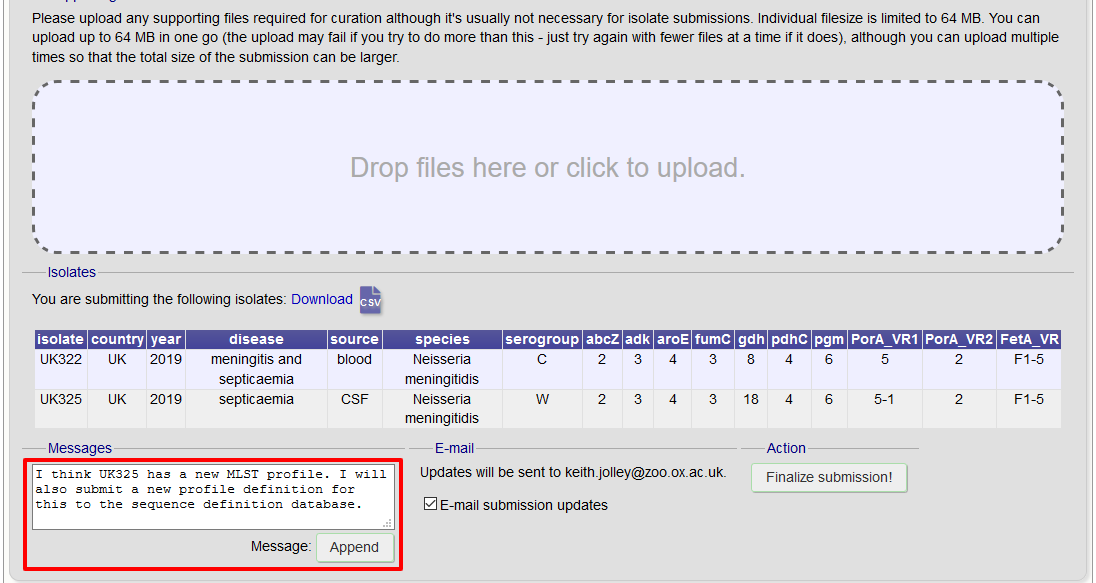
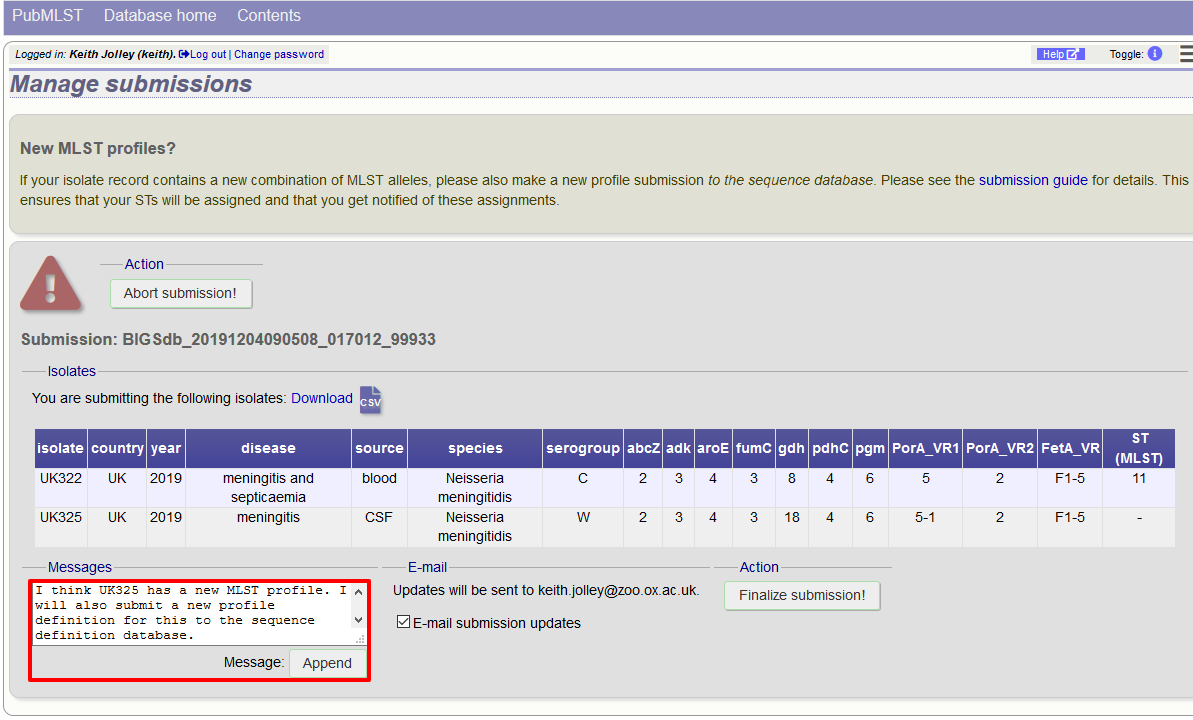
Update isolate submissions - supported files no longer an option.

diff --git a/submissions.rst b/submissions.rst
@@ -300,20 +300,6 @@ their own, with the full conversation becoming part of the submission record.
 
 .. image:: /images/submissions/submission29.png
 
-Add supporting files
-====================
-You can add any files required to support the submission, although this is not
-normally needed for an isolate submission (if you wish to submit genome 
-assemblies then you need to make a :ref:`genome submission<genome_submission>`,
-rather than an isolate submission.
-
-Files can be added to the submission
-by dragging and dropping in to the large dotted area in the ‘Supporting files’
-section. Alternatively, you can click this area and select files from the local
-file system.
-
-.. image:: /images/submissions/submission30.png
-
 Finalize submission
 ===================
 Make sure the 'E-mail submission updates' box is checked if you wish to receive
